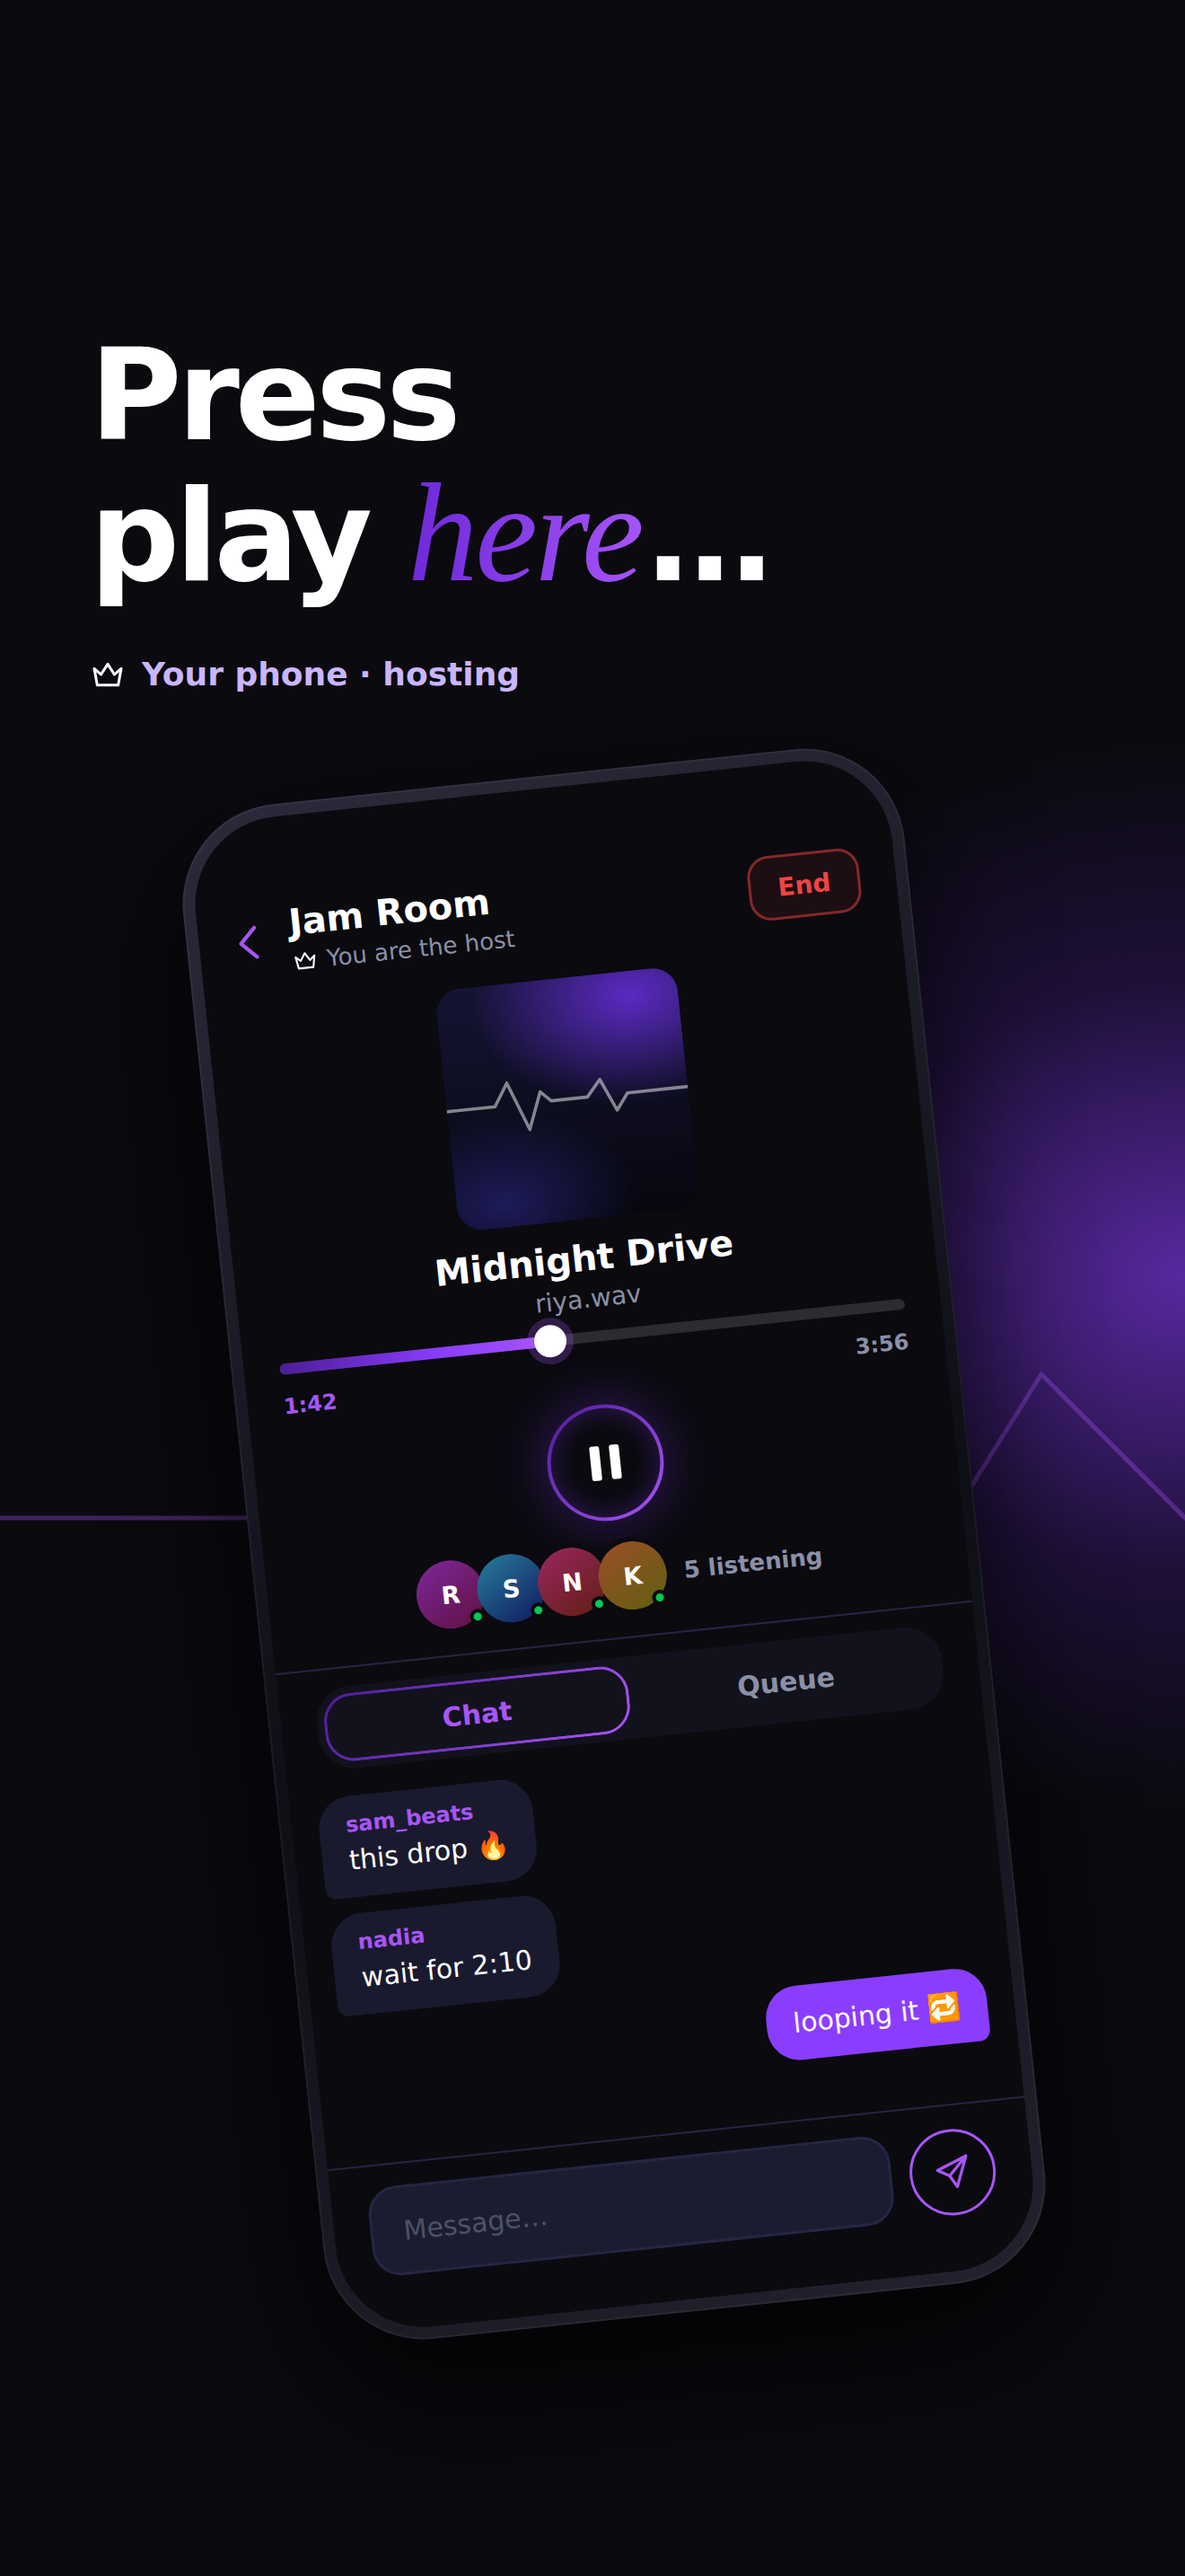
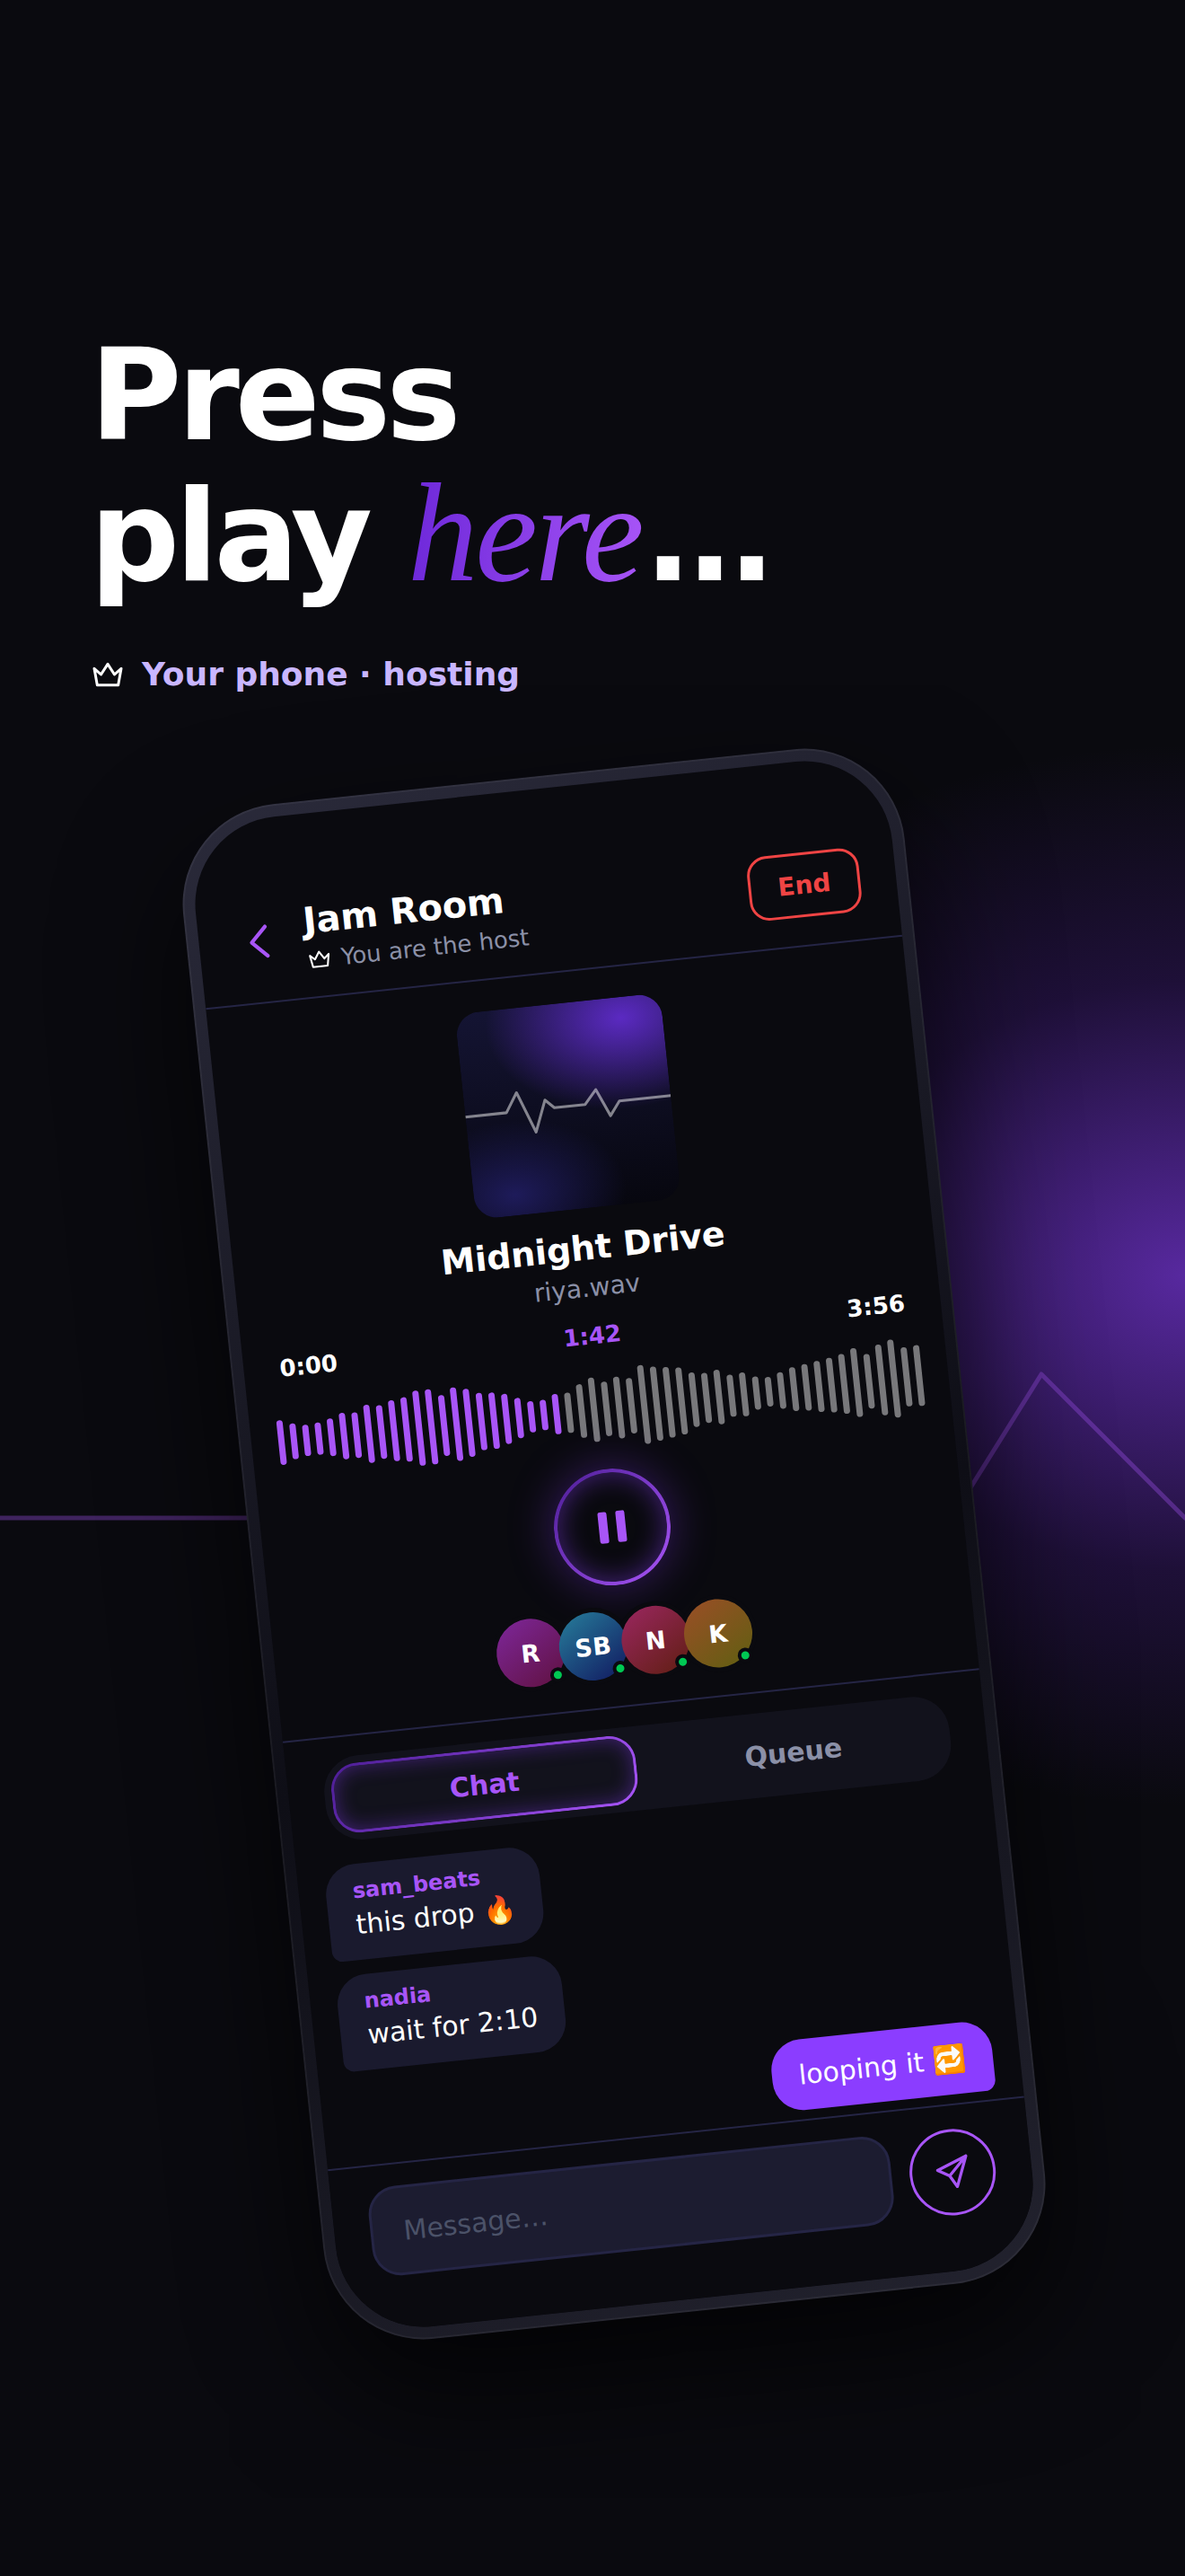
docs: rebuild store panels on the current UI
Panels now match the shipped screens: mark-only home header, the
floating disc player, the repost banner + CREATOR chip, the anchored
waveform scrubber with clip handles, Queue/Info player tabs, the
Share-as composer, Post track upload, and the playlist detail view.
Panel 3 copy revised (no presence strip on Home).

Claude-Session: https://claude.ai/code/session_011zjPTq1LcJUpktfZ27Tory

Changed region(s): [[0.2174, 0.3414, 0.7765, 0.8068], [0.6523, 0.7448, 0.8386, 0.8379]]

diff --git a/docs/screenshots/STORE_STORYBOARD.md b/docs/screenshots/STORE_STORYBOARD.md
@@ -89,10 +89,13 @@ chat and suggest tracks while the host controls playback."
 
 ---
 
-## Panel 3 — "See what your friends are playing. Right now."
+## Panel 3 — "See what your friends are playing."
 
-**Headline:** `See what your friends are playing. *Right now.*`  (gradient: *Right now.*)
-**Sub-line:** `Presence, not posts. Star people with taste and follow their listening live.`
+**Headline:** `See what your friends are *playing*.`  (gradient: *playing*)
+**Sub-line:** `Friends' stories up top. A feed built from people you know — not an algorithm.`
+
+> Revised after checking the source: Home has no live "listening now" strip, so the
+> panel leans on the Friends stories row and the feed card instead.
 
 **Scene:** Phone straight-on, centred. On screen: the **Home feed**.
 
@@ -278,3 +281,8 @@ Screenshots"). Each artboard is 1320 × 2868 and exports to PNG from the canvas 
 `Panel2..6.dc.html` and `canvas.json` into the current directory). `store/panel-N.png`
 are headless-Chromium preview renders of the same files with fallback fonts — the
 canvas loads Sora / Manrope / Instrument Serif and looks sharper than these previews.
+
+
+> **Reference note.** The older PNGs at the top of this folder (`home-feed.png`, `player.png`,
+> …) predate the outlined-button design, the anchored waveform scrubber and the two-tab
+> player. The panels in `store/` were rebuilt from the September 2026 UI and the screen source.
